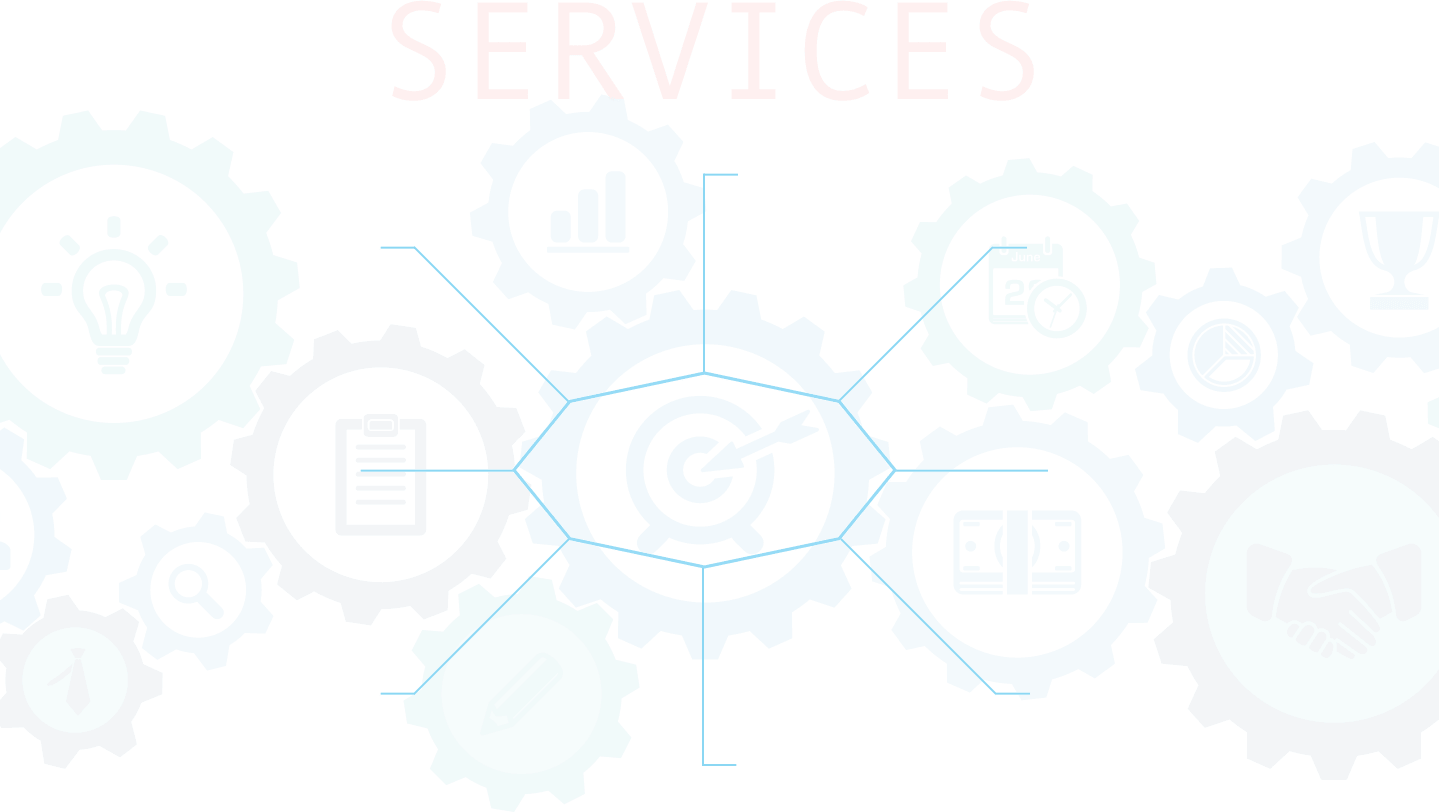
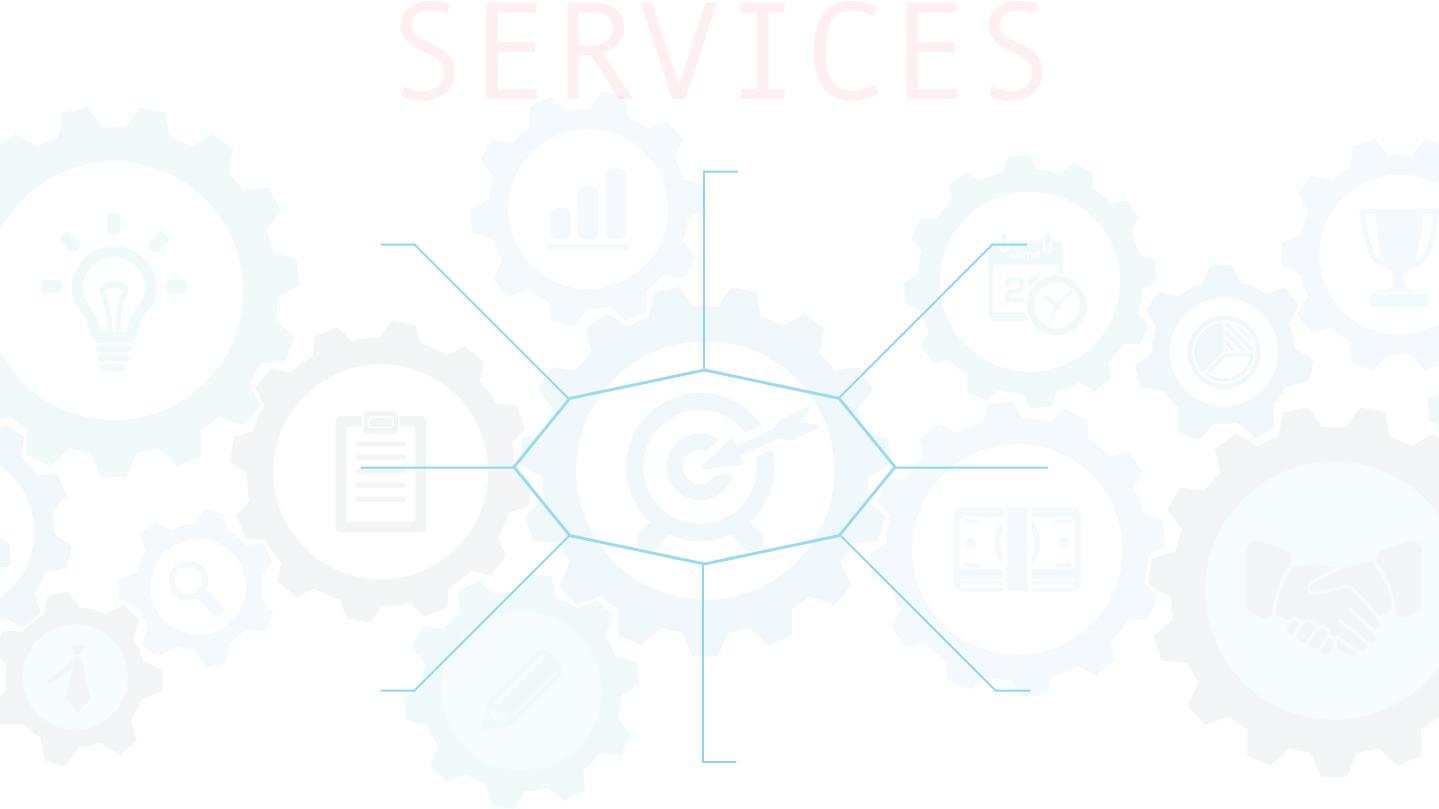
Fix Services

diff --git a/public/css/main.css b/public/css/main.css
@@ -222,7 +222,7 @@ a:hover {
 
 #service {
     background: url('../images/services.png') no-repeat;
-    height: 800px;
+    height: 810px;
     margin-top: 80px;
     margin-bottom: 70px;
     background-position: 50% 50%;
@@ -231,7 +231,7 @@ a:hover {
 
 #service-eng {
     background: url('../images/services-eng.png') no-repeat;
-    height: 800px;
+    height: 810px;
     margin-top: 80px;
     margin-bottom: 70px;
     background-position: 50% 50%;
@@ -284,7 +284,7 @@ a:hover {
 
 
 #service-gear {
-    margin-top: 143px;
+    margin-top: 150px;
     margin-right: 35px;
      -webkit-animation: spinAboutItsCentreGear 3s linear infinite; 
 }
